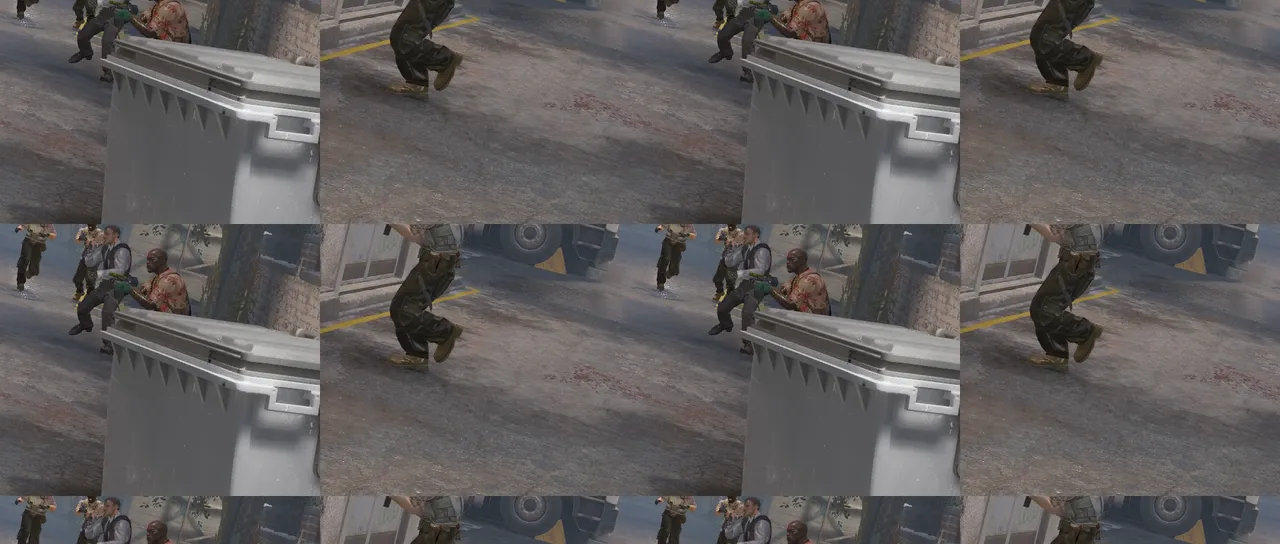
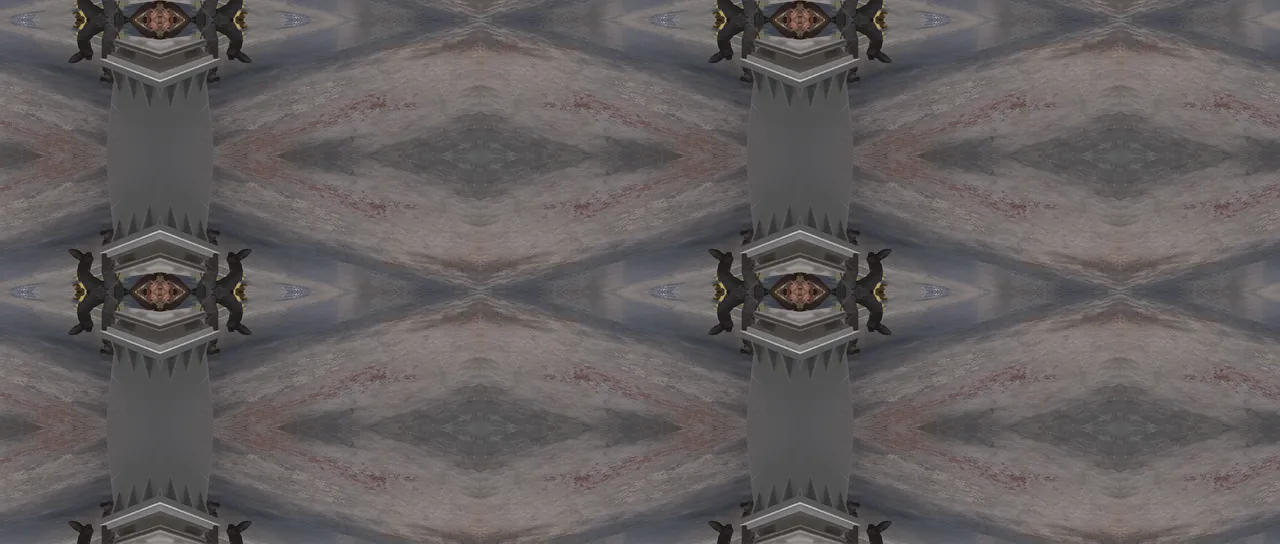
A driver has no picture, and a points effect has none without a wire
The effect-example run has been failing since the drivers and the points family
landed: fourteen effects came back bit-identical to the plate, and the harness
stops when that list is not empty, because a silently neutral example is worse
than a missing one. Most of the fourteen were never going to draw.

- The eight drivers answer with a number, a colour or a bag of points, and reach
  whatever they drive through a wire in the node graph. There is no picture of
  one.
- Clone to points, Trail and Connect points take their stream on a wire-only
  input, which exists in the graph and nowhere else. This harness stages one
  effect on one layer with no graph behind it, so nothing reaches them, and no
  showcase entry can supply what only a wire can.
- Planar track holds a job, like Camera track beside it.
- Tile at its declared defaults repeats a frame-sized tile once over the frame,
  which is the frame. A quarter of the width, mirrored, is a picture of tiling.

That leaves Lens flare, which is **not** a nature but a defect: the physical
flare adds nothing to a headless render. The frame comes back bit-identical at
the defaults and still bit-identical with Intensity at 3.5 and an area light
placed on the brightest part of the picture. Its showcase entry is written and
correct; it is skipped so the run finishes and so the manual does not carry a
picture of the plate with "Lens flare" under it. The skip comes out the day the
flare's additive pass reaches this renderer.
[…]

diff --git a/crates/lumit-render/tests/effect_examples.rs b/crates/lumit-render/tests/effect_examples.rs
@@ -195,6 +195,15 @@ fn showcase(match_name: &str) -> Vec<(&'static str, EffectValue)> {
             ("position_x", f(90.0)),
         ],
         "offset" => vec![("shift_x", f(420.0)), ("shift_y", f(130.0))],
+        // A tile the size of the frame repeated once over the frame is the
+        // frame, which is why the declared defaults are neutral. A quarter of
+        // the width, mirrored, is a picture of what tiling is: four across,
+        // each one flipped against its neighbour so the seams disappear.
+        "tile" => vec![
+            ("tile_width", f(480.0)),
+            ("tile_height", f(204.0)),
+            ("mirror_edges", on(true)),
+        ],
         "displacement_map" => vec![
             ("horizontal_amount", f(320.0)),
             ("vertical_amount", f(220.0)),
@@ -254,6 +263,31 @@ fn showcase(match_name: &str) -> Vec<(&'static str, EffectValue)> {
 
         // --- Flash's Manual mode reads the trigger as the level ---
         "flash" => vec![("trigger", f(0.55)), ("intensity", f(70.0))],
+        // Particulate's defaults are a working emitter, not a neutral one, so
+        // this is not a picture that would otherwise be the plate — it is one
+        // that would otherwise be unreadable. A second of a hundred and fifty
+        // four-pixel particles from a four-hundred-pixel emitter is a faint
+        // sprinkle at figure size. Bigger particles, more of them, and a wider
+        // mouth make a picture a reader can name.
+        "particulate" => vec![
+            ("emit_rate", f(900.0)),
+            ("size", f(14.0)),
+            ("width", f(900.0)),
+            ("height", f(500.0)),
+            ("initial_speed", f(220.0)),
+        ],
+        // The physical flare, driven hard and pointed at a bright part of the
+        // plate: the ghost train only reads at figure size if the light is
+        // strong and off to one side, and an area source gives the ghosts a
+        // shape rather than a row of dots.
+        "lens_flare" => vec![
+            ("source_type", choice(0)),
+            ("light_x", f(1420.0)),
+            ("light_y", f(240.0)),
+            ("intensity", f(3.5)),
+            ("source_width", f(120.0)),
+            ("source_height", f(120.0)),
+        ],
 
         _ => Vec::new(),
     }
@@ -470,10 +504,37 @@ fn unillustrable(match_name: &str) -> Option<&'static str> {
     match match_name {
         "posterize_time" => Some("holds frames, which only shows in motion"),
         "matte_key" => Some("the example frame has no screen in it to key"),
-        // Camera track holds a job and the Controls hold values for expressions
-        // to read; none of them draws, so a picture would be the plate twice.
-        "camera_track" | "slider_control" | "angle_control" | "checkbox_control"
-        | "colour_control" | "point_control" => Some("draws nothing by design"),
+        // Camera track and Planar track hold a job, and the Controls hold values
+        // for expressions to read; none of them draws, so a picture would be the
+        // plate twice.
+        "camera_track" | "planar_track" | "slider_control" | "angle_control"
+        | "checkbox_control" | "colour_control" | "point_control" => {
+            Some("draws nothing by design")
+        }
+        // The drivers. A driver answers with a *number*, a colour or a bag of
+        // points for something else to use, and reaches whatever it drives
+        // through a wire in the node graph. There is no picture of one.
+        "wiggle" | "smooth" | "math" | "remap" | "audio_level" | "colour_cycle"
+        | "points_sample" | "layer_points" => {
+            Some("a driver: it answers with a value, not a picture")
+        }
+        // The points effects that *consume* a stream. Their points arrive on a
+        // wire-only input (points-stream.md §4.1), which exists in the node
+        // graph and nowhere else, and this harness stages one effect on one
+        // layer with no graph behind it. With no stream in they draw nothing,
+        // and a showcase entry cannot supply one — only a wire can.
+        "clone_to_points" | "trail" | "connect_points" => {
+            Some("draws what a wired points stream gives it, and there is no graph here")
+        }
+        // **Not a nature — a defect.** The physical flare adds nothing to a
+        // headless render: the frame comes back bit-identical to the plate at
+        // the defaults and still bit-identical with Intensity at 3.5 and an
+        // area light placed on the brightest part of the picture. Its showcase
+        // entry below is written and correct; it is skipped here so that the
+        // run does not stop, and so that the manual does not carry a picture of
+        // the plate with "Lens flare" under it. Take this line out the day the
+        // flare's additive pass reaches this renderer.
+        "lens_flare" => Some("adds nothing to a headless render (defect, not by design)"),
         _ => None,
     }
 }
